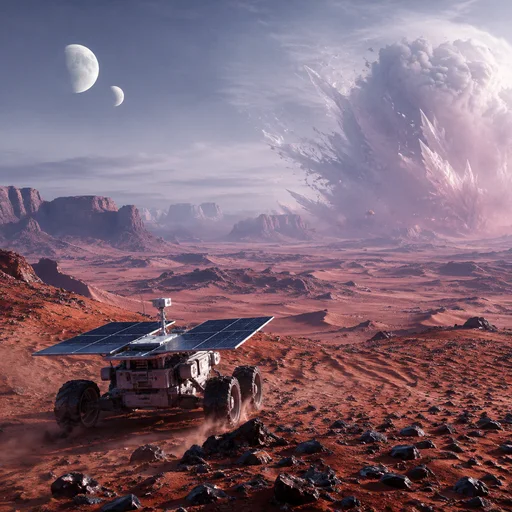
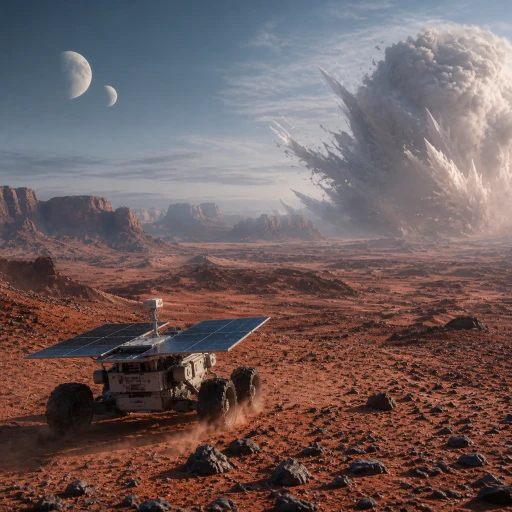
update

diff --git a/static/app.js b/static/app.js
@@ -37,25 +37,25 @@ let sourceObjectUrls = [];
 const textPromptExamples = [
   {
     title: "Ivory Editorial",
-    category: "Women",
+    category: "Person",
     image: "/static/examples/woman-editorial.webp",
     prompt: "Editorial portrait of a poised Vietnamese woman in a sculptural ivory silk ao dai with subtle pearl embroidery, standing beneath curved brutalist concrete arches after rain; reflective courtyard, distant tropical foliage and faint mist; photorealistic luxury fashion editorial with natural skin texture and refined magazine color grading; square waist-up three-quarter pose, 85mm lens, shallow depth of field; soft overcast daylight with a warm rim light; ivory, cool concrete gray and muted jade palette.",
   },
   {
     title: "Neon Monsoon",
-    category: "Women",
+    category: "Person",
     image: "/static/examples/woman-neon.webp",
     prompt: "Cinematic portrait of an adult East Asian woman with a sharp bob haircut wearing layered charcoal streetwear and a translucent raincoat in a neon-lit night market; rain-slick alley, steam drifting from food stalls and abstract out-of-focus signs; photorealistic 35mm street-fashion photography with fine film grain; square dynamic chest-up angle, subject slightly off-center, shallow depth of field; cyan and magenta reflections with soft tungsten highlights; energetic yet introspective mood.",
   },
   {
     title: "Cobalt Couture",
-    category: "Women",
+    category: "Person",
     image: "/static/examples/woman-couture.webp",
     prompt: "High-fashion portrait of an adult Black woman in an architectural cobalt couture gown with pleated shoulders and brushed silver jewelry; vast minimalist gallery with pale stone walls and a single geometric sculpture; photorealistic museum-quality fashion campaign with crisp textile detail; square full three-quarter figure in a symmetrical editorial composition, medium-format camera look; dramatic skylight creating long clean shadows; cobalt blue, limestone, silver and deep umber palette.",
   },
   {
     title: "Wildflower Light",
-    category: "Women",
+    category: "Person",
     image: "/static/examples/woman-sunlight.webp",
     prompt: "Intimate lifestyle portrait of an adult South Asian woman in a rust linen dress arranging wildflowers beside an open window in an old artist studio; limewashed walls, ceramic vessels, moving linen curtains and visible dust motes; photorealistic analog editorial photography with tactile natural textures; square candid waist-up composition, 50mm lens, foreground flowers framing the subject; late-afternoon honeyed sunlight; warm, quiet and contemplative terracotta, ochre, cream and dusty-green palette.",
   },
@@ -67,33 +67,33 @@ const textPromptExamples = [
   },
   {
     title: "Fox Astronomer",
-    category: "Illustration",
+    category: "Wildlife",
     image: "/static/examples/fox-library.webp",
-    prompt: "A small red fox librarian cataloguing glowing constellations inside an ancient circular observatory library; towering walnut bookshelves, brass orrery, spiral stairs and a domed ceiling open to a star-filled sky; richly textured storybook gouache and colored-pencil illustration; square composition with the fox at a desk in the lower center and sweeping shelves creating a circular frame; candlelight mixed with cool starlight; whimsical, scholarly and magical midnight-blue, copper and warm-gold palette.",
+    prompt: "Photorealistic cinematic wildlife photograph of a real small red fox appearing to study an open constellation atlas inside an ancient circular observatory library; towering walnut bookshelves, brass orrery, spiral stairs and a domed ceiling open to a star-filled sky; lifelike fur, natural anatomy, realistic wood, brass and paper textures; square composition with the fox at a desk in the lower center and sweeping shelves forming a circular frame; practical candlelight mixed with cool starlight; magical yet physically plausible midnight-blue, copper and warm-gold palette; no clothes or human-like features.",
   },
   {
     title: "Midnight Ramen",
     category: "Food",
     image: "/static/examples/ramen-still-life.webp",
-    prompt: "Elevated overhead food photograph of handmade miso ramen with charred corn, soft egg, shiitake mushrooms, scallions, chili oil and crisp nori; dark walnut table with a folded indigo napkin, chopsticks and tiny ceramic condiment dishes; premium restaurant campaign photography with ultra-real food texture; square top-down flat lay with balanced asymmetry and subtle negative space; soft directional window light; lacquer black, amber broth, yolk gold, deep green and indigo palette.",
+    prompt: "Elevated overhead food photograph of handmade miso ramen with charred corn, soft egg, shiitake mushrooms, scallions, chili oil and crisp nori; dark walnut table with a folded indigo napkin, chopsticks and tiny ceramic condiment dishes; photorealistic premium restaurant campaign photography with authentic food texture; square top-down flat lay with balanced asymmetry and subtle negative space; soft directional window light; lacquer black, amber broth, yolk gold, deep green and indigo palette.",
   },
   {
     title: "Two-Moon Rover",
     category: "Sci-fi",
     image: "/static/examples/desert-rover.webp",
-    prompt: "A compact solar exploration rover crossing a vast red desert beneath two pale moons while a distant crystalline dust storm rises; layered sandstone mesas, rippled dunes and scattered black volcanic glass; cinematic hard-science-fiction concept art with realistic engineering and atmospheric depth; square wide-angle low viewpoint, rover in the lower third beneath a monumental sky; cold dawn light with long violet shadows; lonely, exploratory and awe-inspiring rust-red, pale-cyan and matte-white palette.",
+    prompt: "Photorealistic cinematic space-mission photograph of a compact solar exploration rover crossing a vast red desert beneath two pale moons while a distant crystalline dust storm rises; layered sandstone mesas, rippled dunes and scattered black volcanic glass; physically plausible engineering, weathered machinery, natural optics and realistic atmospheric depth; square wide-angle low viewpoint, rover in the lower third beneath a monumental sky; cold dawn light with long violet shadows; lonely, exploratory and awe-inspiring rust-red, pale-cyan and matte-white palette.",
   },
   {
     title: "Rainforest Jewel",
     category: "Wildlife",
     image: "/static/examples/glass-frog.webp",
-    prompt: "Macro photograph of a translucent glass frog perched on a rain-covered emerald leaf, tiny toes gripping the edge; cloud-forest understory dissolving into creamy bokeh with suspended droplets; scientifically believable wildlife macro photography with exquisite micro-detail; square extreme close-up at eye level, frog centered on a diagonal leaf line; diffused rainforest light with luminous backlighting through the leaf; delicate and mysterious emerald, lime, translucent mint and silver palette.",
+    prompt: "Photorealistic macro photograph of a translucent glass frog perched on a rain-covered emerald leaf, tiny toes gripping the edge; cloud-forest understory dissolving into creamy bokeh with suspended droplets; scientifically accurate wildlife photography with exquisite natural micro-detail; square extreme close-up at eye level, frog centered on a diagonal leaf line; diffused rainforest light with luminous backlighting through the leaf; delicate and mysterious emerald, lime, translucent mint and silver palette.",
   },
   {
     title: "Last Set",
     category: "Music",
     image: "/static/examples/jazz-cellar.webp",
-    prompt: "An elderly jazz pianist performing alone in a tiny underground club as the last audience members listen in silence; worn upright piano, brick cellar walls, small round tables and faint stage haze; cinematic documentary photography with 35mm film grain and authentic aged textures; square intimate side view, pianist and keyboard forming a diagonal, listeners softly blurred behind; a single warm spotlight against deep blue ambient shadows; soulful tobacco-brown, brass-gold and burgundy palette.",
+    prompt: "Photorealistic cinematic documentary photograph of an elderly jazz pianist performing alone in a tiny underground club as the last audience members listen in silence; worn upright piano, brick cellar walls, small round tables and faint stage haze; authentic 35mm film grain, natural skin and aged material textures; square intimate side view, pianist and keyboard forming a diagonal, listeners softly blurred behind; a single warm spotlight against deep blue ambient shadows; soulful tobacco-brown, brass-gold and burgundy palette.",
   },
 ];
 
